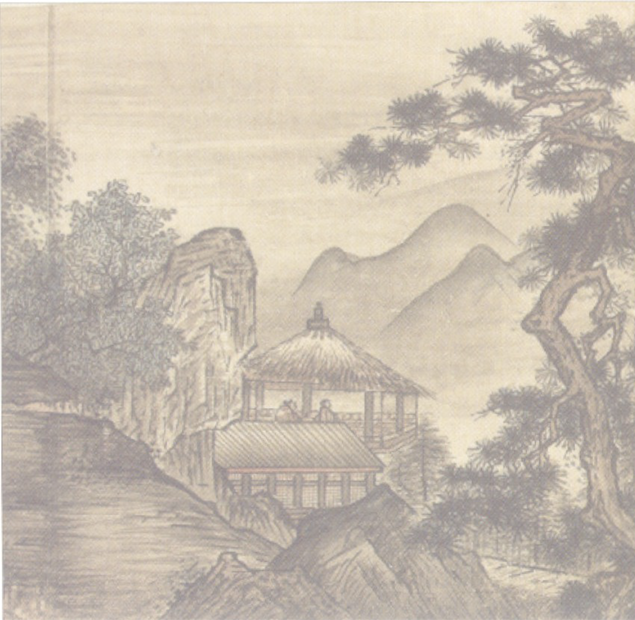
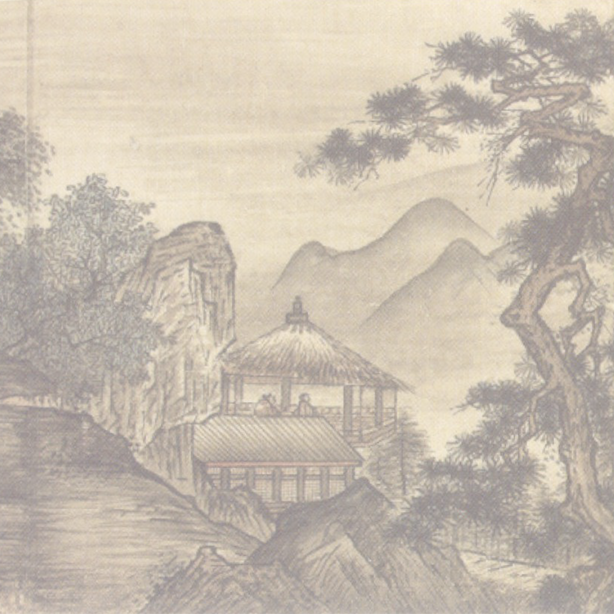
bg fix and keyrepeat-preventing lock flag

diff --git a/src/js/core/players/ui/client-ui.js b/src/js/core/players/ui/client-ui.js
@@ -1,3 +1,22 @@
+// Make sure we put in the signal lock to prevent
+// OS/application-level keyrepeat from incorrectly
+// triggering click events:
+
+let vk_signal_lock = false;
+
+function lock_vk_signal() {
+  vk_signal_lock = true;
+  document.addEventListener('keyup', unlock_vk_signal);
+};
+
+function unlock_vk_signal(evt) {
+  let code = evt.keyCode;
+  if (VK_UP[code] || VK_SIGNAL[code]) {
+    vk_signal_lock = false;
+    document.removeEventListener('keyup', unlock_vk_signal);
+  }
+};
+
 /**
  * This is a graphical interface that players can use
  * to visualise their game knowledge, and allow external
@@ -217,8 +236,11 @@ class ClientUI {
         highlightTile({ target: currentTile });
 
         if (VK_UP[code] || VK_SIGNAL[code]) {
-          currentTile.classList.remove('highlight');
-          pickAsDiscard({ target: currentTile });
+          if (!vk_signal_lock) {
+            lock_vk_signal();
+            currentTile.classList.remove('highlight');
+            pickAsDiscard({ target: currentTile });
+          }
         }
 
         if (VK_DOWN[code]) this.spawnDeclarationModal(currentTile, pickAsDiscard);
@@ -402,6 +424,10 @@ class ClientUI {
 
     // keyboard interaction
     let listenForKeys = evt => {
+      // Prevent keyrepeat immediately kicking in off of a
+      // discard action, which uses the same signal:
+      if (vk_signal_lock) return;
+
       let code = evt.keyCode;
       let willBeHandled = (VK_LEFT[code] || VK_RIGHT[code] || VK_UP[code] || VK_SIGNAL[code]);
       if (!willBeHandled) return;

diff --git a/src/css/discards.css b/src/css/discards.css
@@ -9,8 +9,7 @@
   height: var(--d);
   background-color: var(--prp);
   background-image: url('../../img/background/opacity-05.png');
-  background-size: 103%;
-  background-position: -15px -3px;
+  background-size: cover;
   border: calc(3 * var(--sep)) solid var(--green);
   box-sizing: border-box;
   display: flex;
